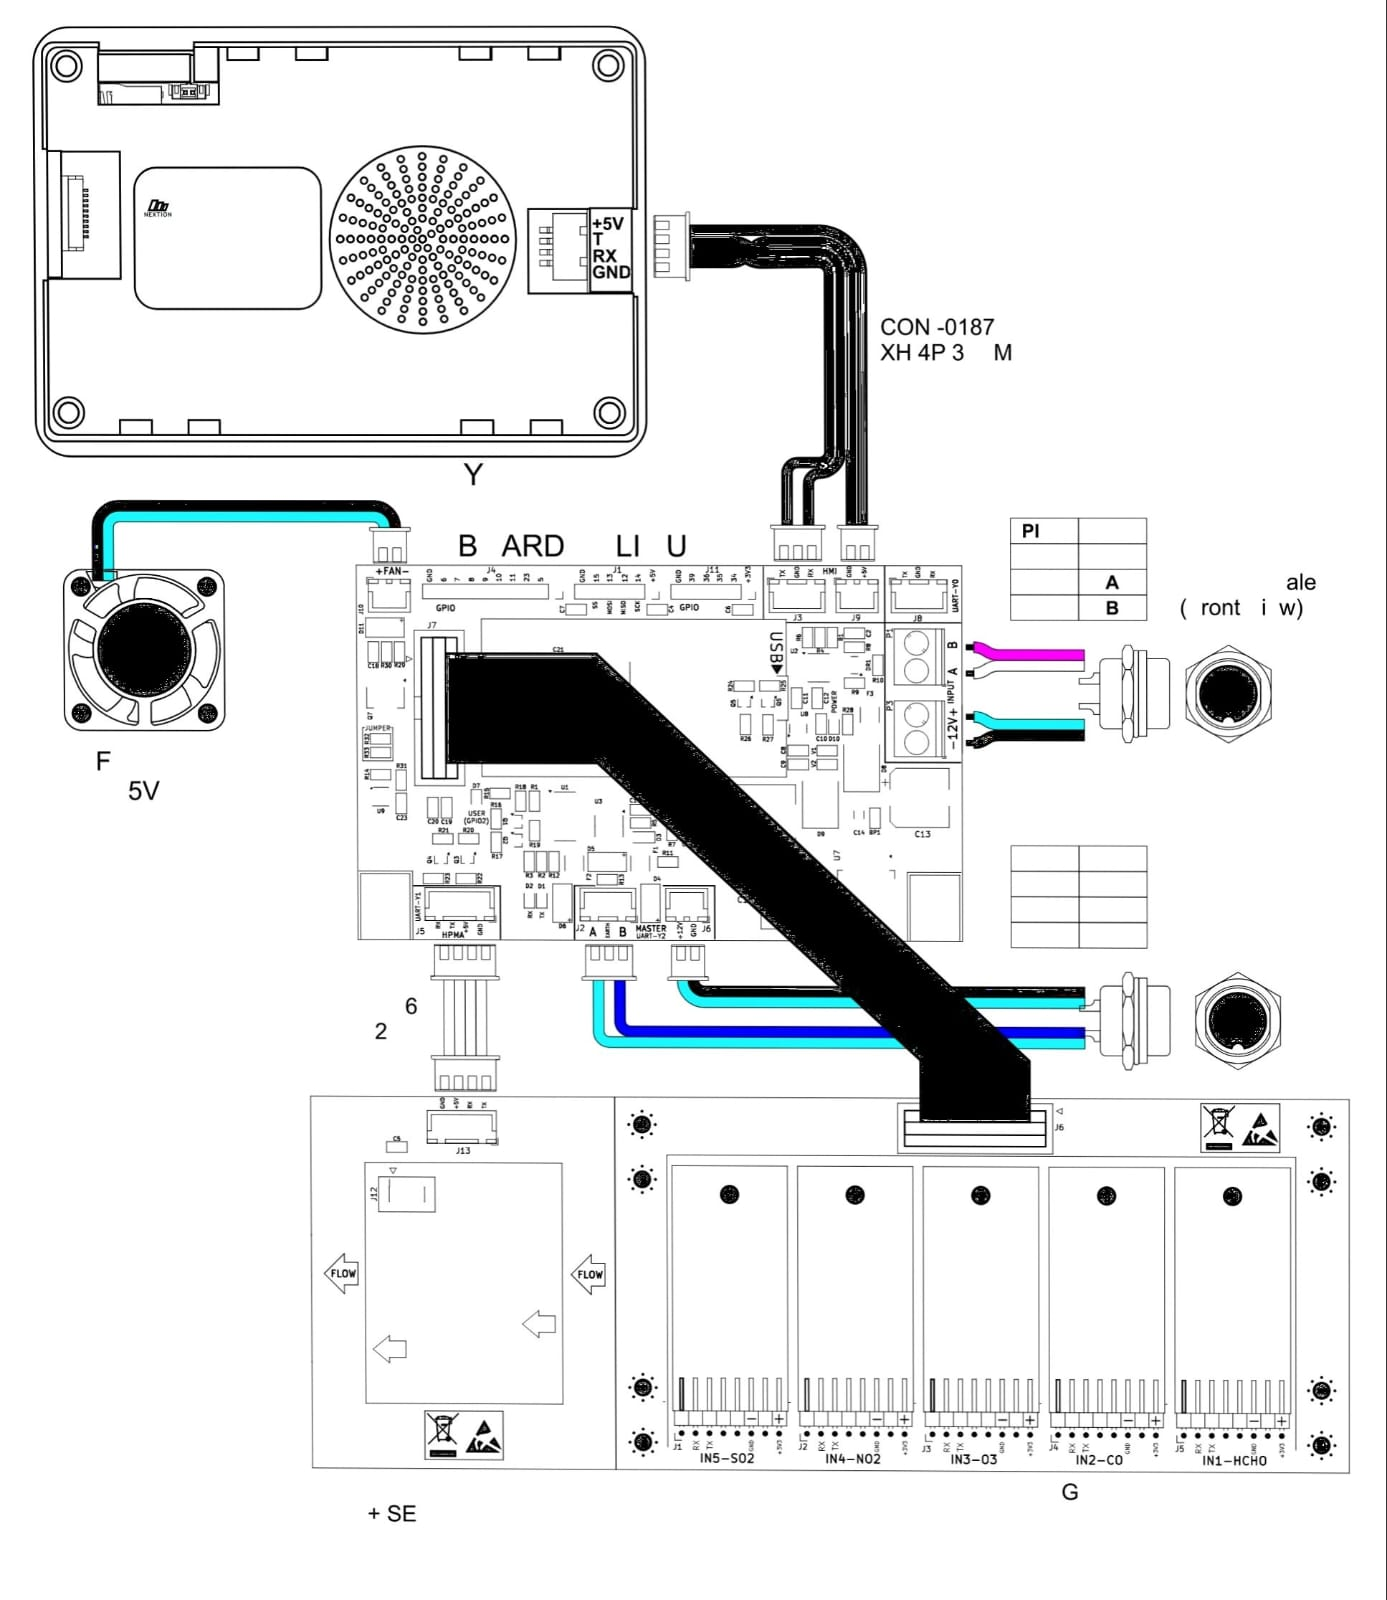
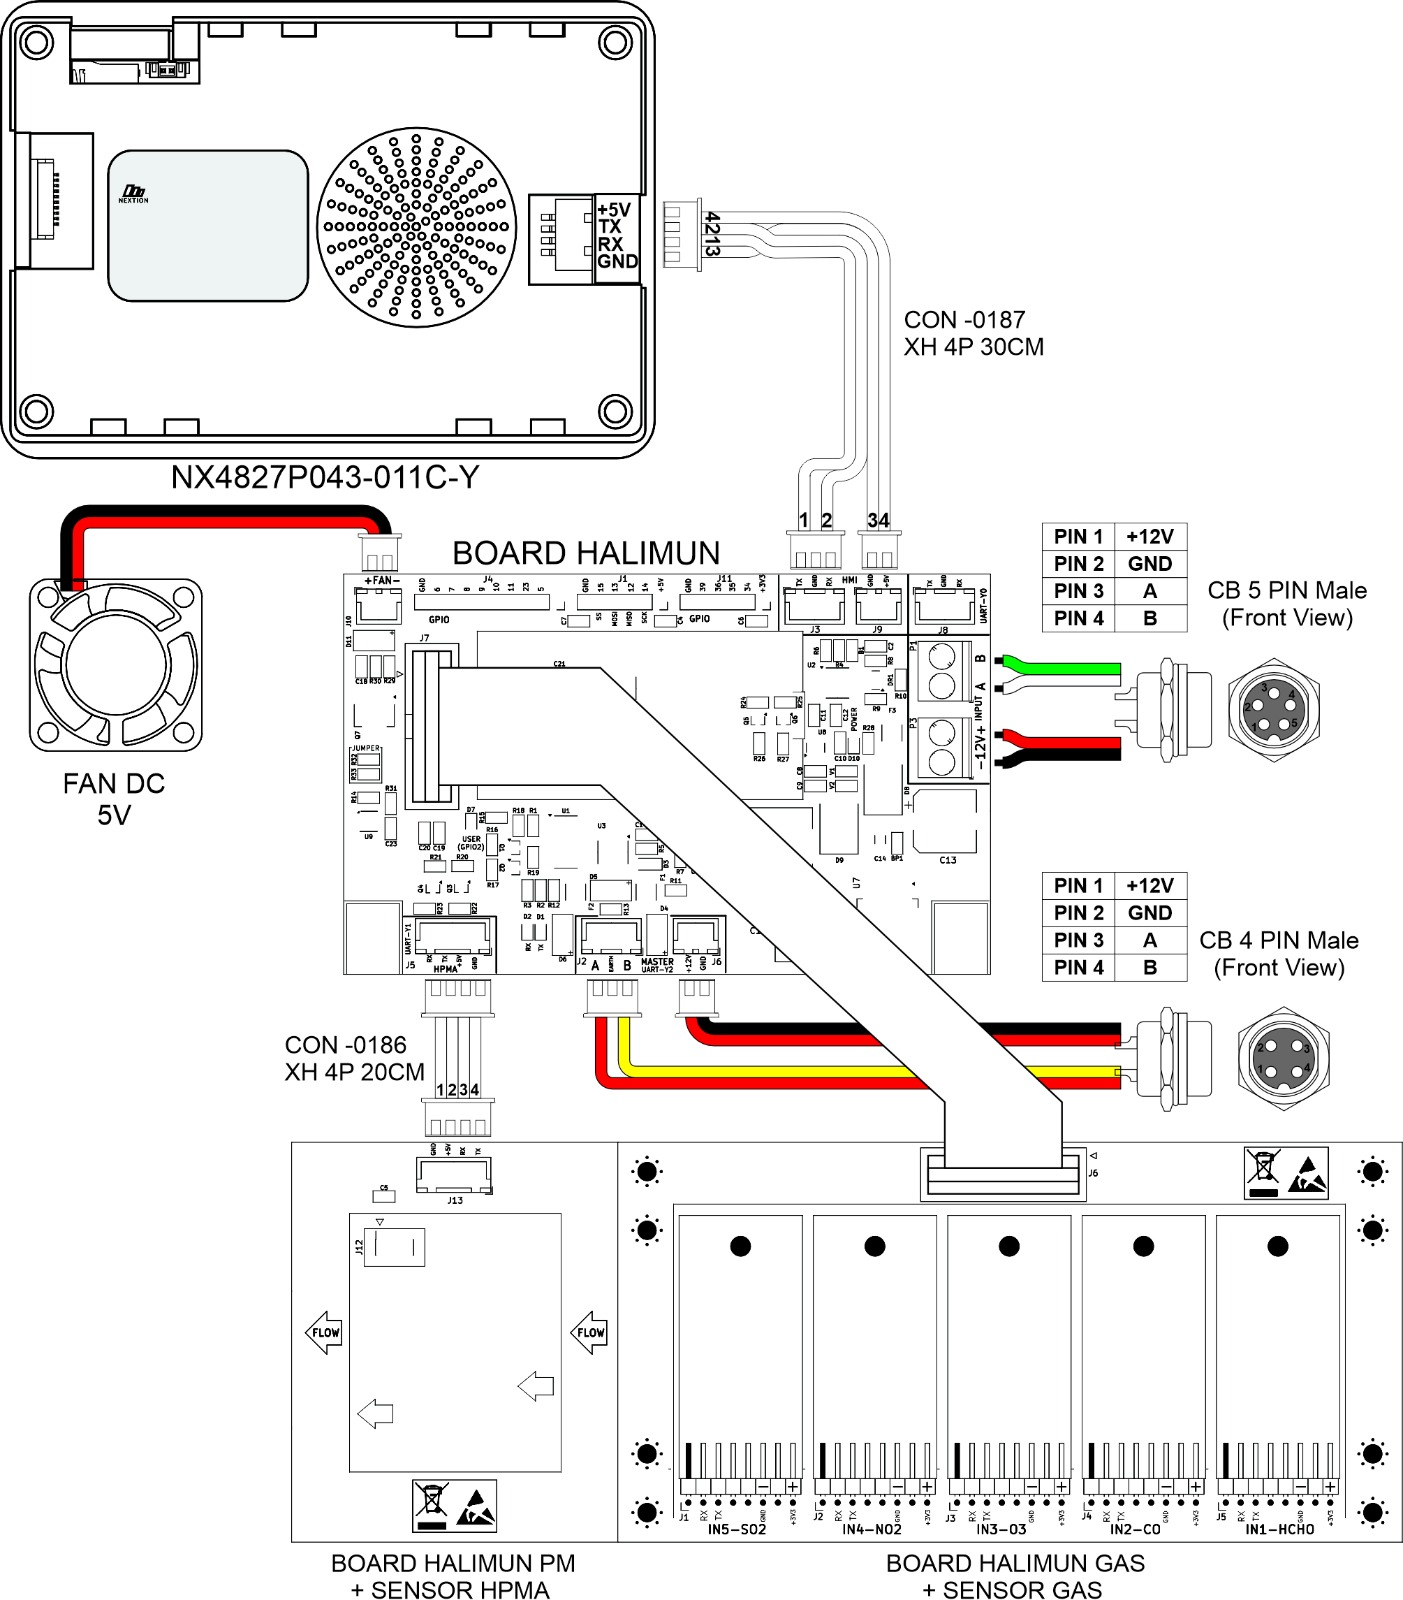
edit wiring aqms

Changed region(s): [[0.0, 0.0, 1.0, 1.0], [0.248, 0.875, 0.403, 1.0], [0.093, 0.1875, 0.217, 0.2188]]

diff --git a/aqms/README.md b/aqms/README.md
@@ -12,4 +12,6 @@ Terdapat main procesor dan tampilan untuk menampilkan Nilai data
 
 ![Wiring AQMS](./assets/images/wireAqms.jpeg  "Monita AQMS")
 
+![Konektor AQMS](./assets/images/conn_boxAqms.jpeg  "Konektor AQMS")
+
 
